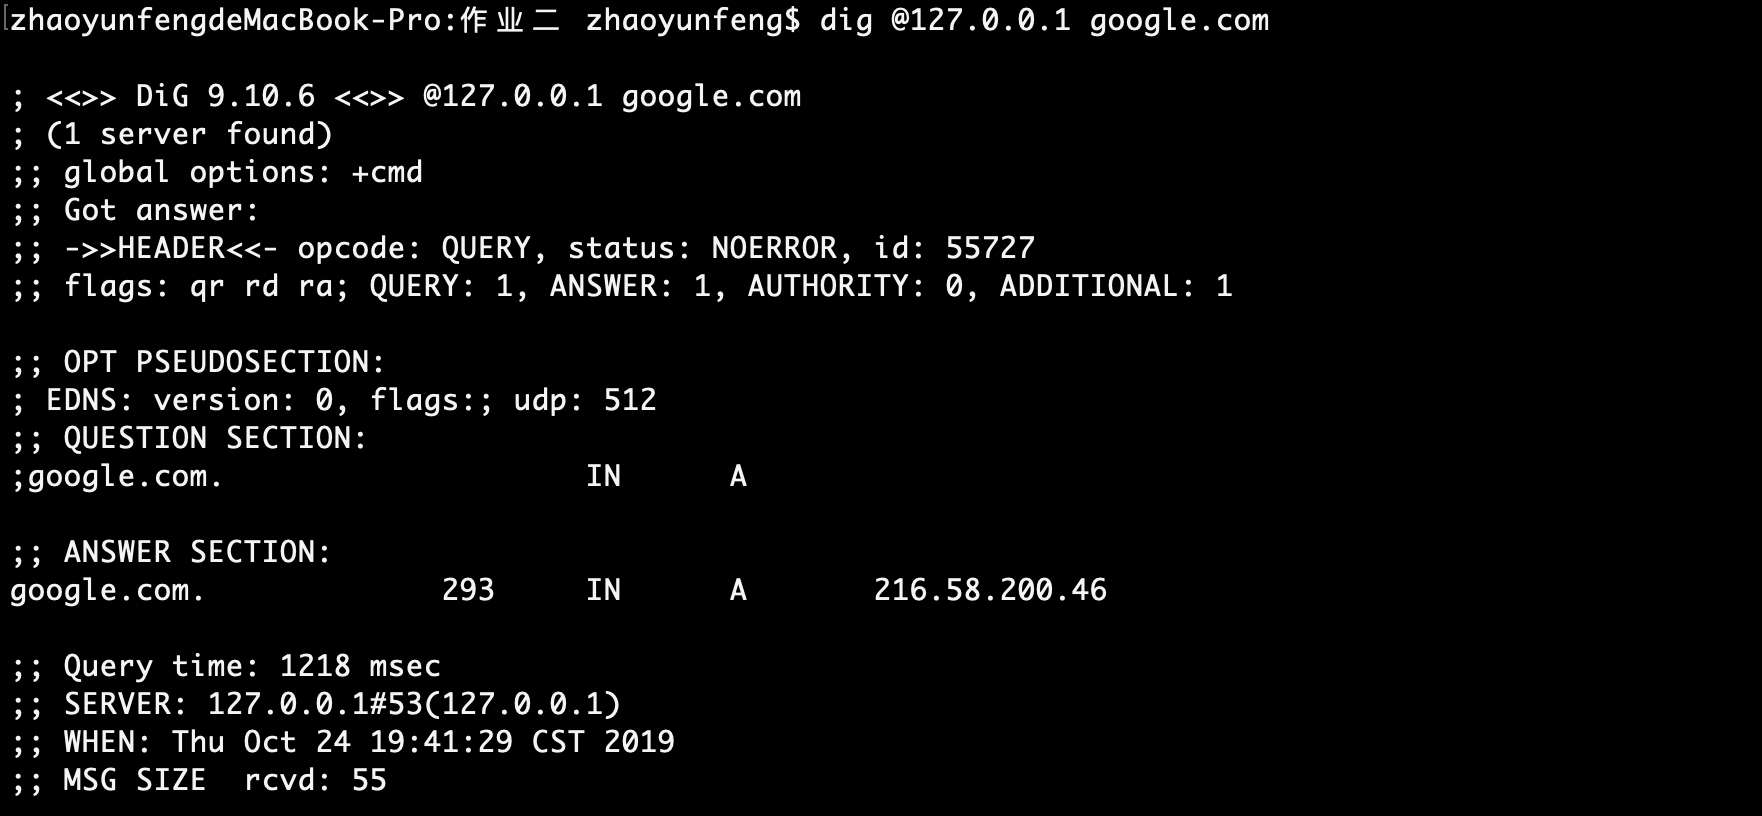
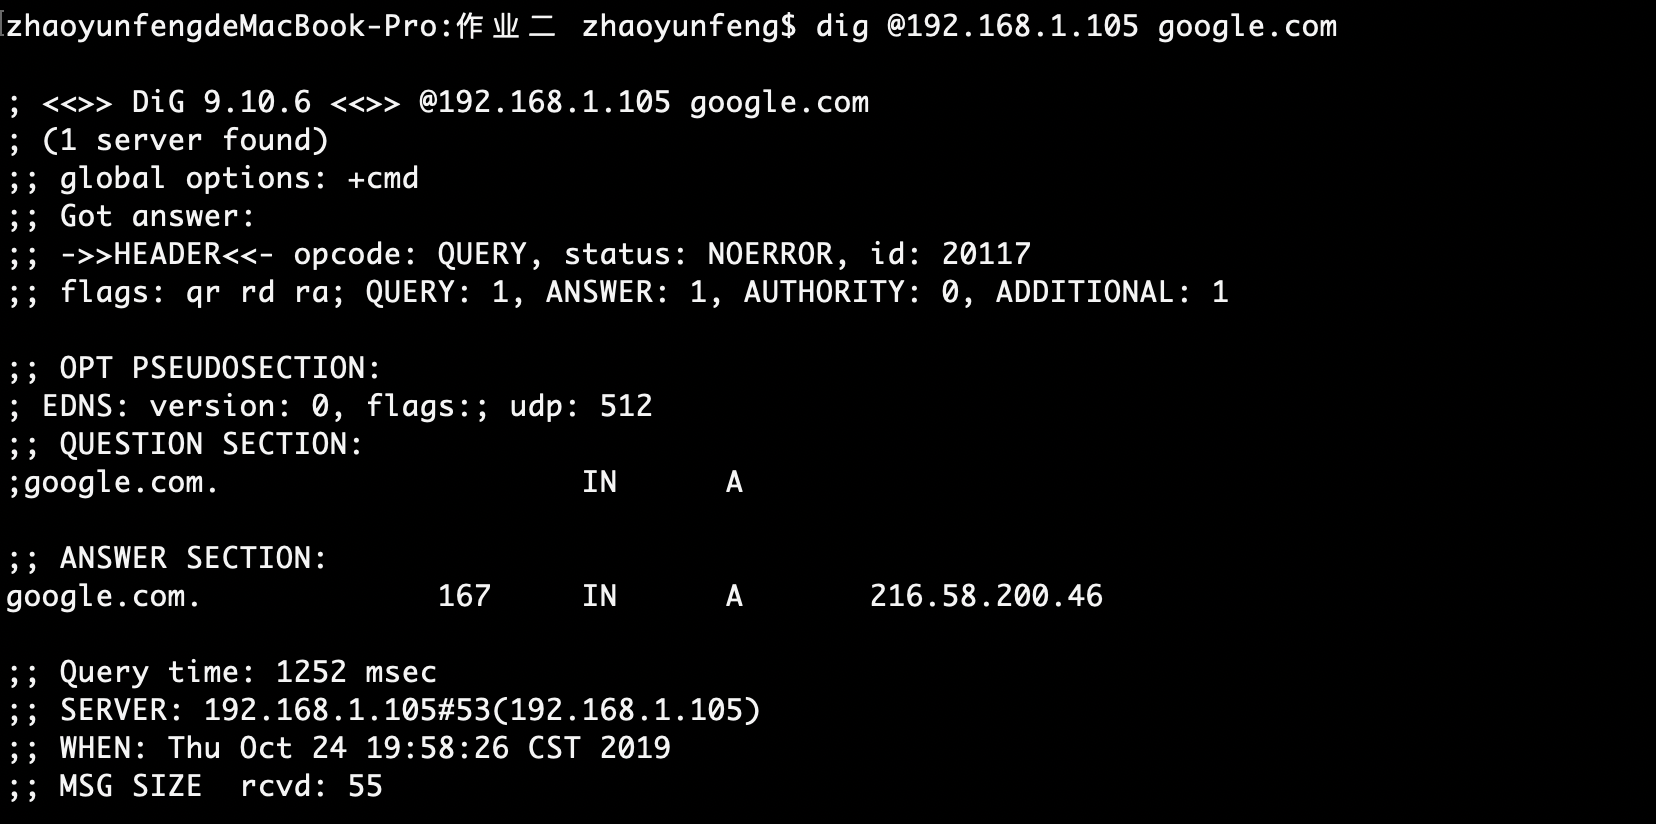
finish part2 report

diff --git a/作业二/dns_service.py b/作业二/dns_service.py
@@ -85,7 +85,7 @@ def serve():
         query, addr = server.recvfrom(1024)
         print('receive a query for', DNSRecord.parse(query).questions)
         response = dns_proxy(query)
-        print('get clean answer is', DNSRecord.parse(response))
+        print('get clean answer is', DNSRecord.parse(response).)
         server.sendto(response, addr)
         server.close()
 

diff --git a/作业二/实验报告.md b/作业二/实验报告.md
@@ -14,9 +14,10 @@ TODO
 ~~~
 
 - 具体实现中，我们使用了dnslib库来发DNS请求包和解析DNS回复包，使用dnspython库来调用正常的dns服务来对获取的域名到ip的映射进行对比，结果写在了domains2ips.csv中。
-- 最后我们用两台电脑做了实验，运行我们的dns服务器并且监听53端口，同时用dig发起其他域名的请求，对收到的DNS请求包转发给8.8.8.8的53端口并且用1秒内的最后一个返回结果作为真正的返回结果返回给请求方。实验结果如下：
-  - 未开启服务时请求解析google.com得到结果![dig_1](dig_1.png)
+- 最后我们用两台电脑做了实验，电脑A运行我们的dns服务器并且监听53端口，同时用电脑B对A用dig发起其他域名的请求，对收到的DNS请求包转发给8.8.8.8的53端口并且用1秒内的最后一个返回结果作为真正的返回结果返回给请求方。实验结果如下：
+  - 未开启服务时B请求解析google.com得到结果![dig_1](dig_1.png)
   - 调用whois查询ip所属得到结果如图，可知其并不是google真正的ip![whois_1](whois_1.png)
-  - 本机开启dns_server.py服务后，再次用dig请求对google.com域名进行解析，得到![dig_2](dig_2.png)
+  - A开启dns_service.py服务后，再次用dig请求对google.com域名进行解析，服务器(A)端输出如图![server](server.png)
+  - 得到![dig_2](dig_2.png)
   - 再次调用whois查询得到结果，可知这确实是google.com真正的ip之一![whois_2](whois_2.png)
   - 可见DNS服务器获得了正确的无污染的结果
